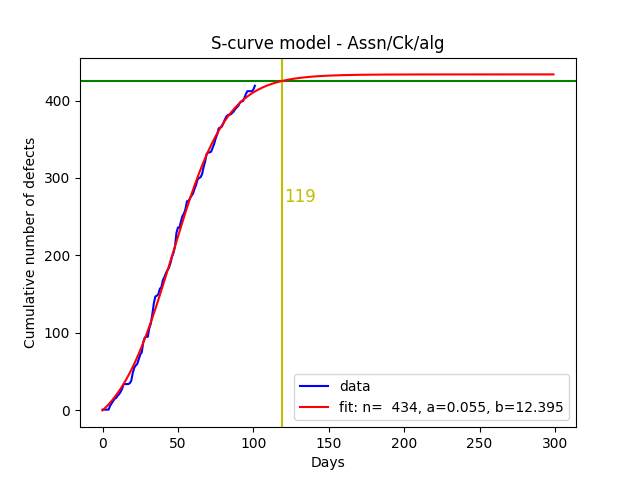
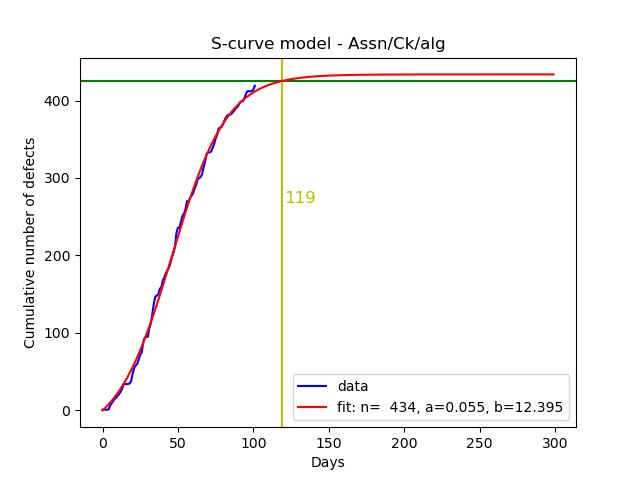
more r-squared values

diff --git a/models.py b/models.py
@@ -117,7 +117,7 @@ plt.close()
 ss_res = np.sum(residuals**2)
 ss_tot = np.sum((ydata-np.mean(ydata))**2)
 r_squared = 1 - (ss_res / ss_tot)
-print(r_squared)
+print("Rayleigh r-squared value: " + str(r_squared))
 
 popt, pcov, infodict, mesg, ier = curve_fit(weibull_cdf, xdata, ydata, bounds=[(0.001, 0.001, 0.001),(np.inf, np.inf, np.inf)], full_output=True)
 fit_y = weibull_cdf(fit_x, *popt)
@@ -148,7 +148,7 @@ plt.close()
 ss_res = np.sum(residuals**2)
 ss_tot = np.sum((ydata-np.mean(ydata))**2)
 r_squared = 1 - (ss_res / ss_tot)
-print(r_squared)
+print("Weibull r-squared value: " + str(r_squared))
 
 popt, pcov, infodict, mesg, ier = curve_fit(logistic_cdf, xdata, ydata, bounds=[(0.001, -np.inf, 0.001),(np.inf, np.inf, np.inf)], full_output=True)
 fit_y = logistic_cdf(fit_x, *popt)
@@ -179,7 +179,7 @@ plt.close()
 ss_res = np.sum(residuals**2)
 ss_tot = np.sum((ydata-np.mean(ydata))**2)
 r_squared = 1 - (ss_res / ss_tot)
-print(r_squared)
+print("Logistic r-squared value: " + str(r_squared))
 
 popt, pcov, infodict, mesg, ier = curve_fit(lyu_cdf, xdata, ydata, bounds=[(0.001, -np.inf, -np.inf),(np.inf, np.inf, np.inf)], full_output=True)
 fit_y = lyu_cdf(fit_x, *popt)
@@ -196,46 +196,6 @@ plt.legend()
 plt.savefig('figures/fits/lyu.png')
 plt.close()
 
-for defect_type in [x for x in defect_types if x != "Misc"]:
-    xs = [x for x in range(len(total_defects_per_type[defect_type]))]
-    xdata = np.asarray(xs)
-    ydata = np.asarray(total_defects_per_type[defect_type])
-
-    popt, pcov = curve_fit(weibull_cdf, xdata, ydata, bounds=[(0.001, 0.001, 0.001),(np.inf, np.inf, np.inf)])
-    fit_y = weibull_cdf(fit_x, *popt)
-    day_of_x_defects = fit_x[fit_y.searchsorted(0.98*popt[0], 'left')]
-    plt.plot(xdata, ydata, 'b-', label='data')
-    plt.axhline(y=0.98*popt[0], color='g', linestyle='-')
-    plt.axvline(x=day_of_x_defects, color='y', linestyle='-')
-    plt.text(day_of_x_defects + 12, popt[0]-170, f'{day_of_x_defects}', color='y', fontsize=12, ha='center', va='bottom')
-    plt.plot(fit_x, fit_y, 'r-', label='fit: n=%5.0f, a=%5.3f, b=%5.3f' % (round(popt[0]), popt[1], popt[2]))
-    plt.title(f'Weibull model - {defect_type}')
-    plt.xlabel('Days')
-    plt.ylabel('Cumulative number of defects')
-    plt.legend()
-    plt.savefig(f'figures/fits/weibull_{defect_type.replace("/","")}.png')
-    plt.close()
-
-for defect_type in defect_types:
-    xs = [x for x in range(len(total_defects_per_type[defect_type]))]
-    xdata = np.asarray(xs)
-    ydata = np.asarray(total_defects_per_type[defect_type])
-
-    popt, pcov = curve_fit(lyu_cdf, xdata, ydata, bounds=[(0.001, -np.inf, -np.inf),(np.inf, np.inf, np.inf)], maxfev=5000)
-    fit_y = lyu_cdf(fit_x, *popt)
-    day_of_x_defects = fit_x[fit_y.searchsorted(0.98*popt[0], 'left')]
-    plt.plot(xdata, ydata, 'b-', label='data')
-    plt.axhline(y=0.98*popt[0], color='g', linestyle='-')
-    plt.axvline(x=day_of_x_defects, color='y', linestyle='-')
-    plt.text(day_of_x_defects + 12, popt[0]-170, f'{day_of_x_defects}', color='y', fontsize=12, ha='center', va='bottom')
-    plt.plot(fit_x, fit_y, 'r-', label='fit: n=%5.0f, a=%5.3f, b=%5.3f' % (round(popt[0]), popt[1], popt[2]))
-    plt.title(f'S-curve model - {defect_type}')
-    plt.xlabel('Days')
-    plt.ylabel('Cumulative number of defects')
-    plt.legend()
-    plt.savefig(f'figures/fits/lyu_{defect_type.replace("/","")}.png')
-    plt.close()
-
 residuals = infodict.get("fvec")
 plt.plot(xdata,residuals, 'o')
 plt.axhline(y=0, color='k', linestyle='--')
@@ -250,4 +210,76 @@ plt.close()
 ss_res = np.sum(residuals**2)
 ss_tot = np.sum((ydata-np.mean(ydata))**2)
 r_squared = 1 - (ss_res / ss_tot)
-print(r_squared)
+print("S-curve r-squared value: " + str(r_squared))
+
+for defect_type in [x for x in defect_types if x != "Misc"]:
+    xs = [x for x in range(len(total_defects_per_type[defect_type]))]
+    xdata = np.asarray(xs)
+    ydata = np.asarray(total_defects_per_type[defect_type])
+
+    popt, pcov, infodict, mesg, ier = curve_fit(weibull_cdf, xdata, ydata, bounds=[(0.001, 0.001, 0.001),(np.inf, np.inf, np.inf)], full_output=True)
+    fit_y = weibull_cdf(fit_x, *popt)
+    day_of_x_defects = fit_x[fit_y.searchsorted(0.98*popt[0], 'left')]
+    plt.plot(xdata, ydata, 'b-', label='data')
+    plt.axhline(y=0.98*popt[0], color='g', linestyle='-')
+    plt.axvline(x=day_of_x_defects, color='y', linestyle='-')
+    plt.text(day_of_x_defects + 12, popt[0]-170, f'{day_of_x_defects}', color='y', fontsize=12, ha='center', va='bottom')
+    plt.plot(fit_x, fit_y, 'r-', label='fit: n=%5.0f, a=%5.3f, b=%5.3f' % (round(popt[0]), popt[1], popt[2]))
+    plt.title(f'Weibull model - {defect_type}')
+    plt.xlabel('Days')
+    plt.ylabel('Cumulative number of defects')
+    plt.legend()
+    plt.savefig(f'figures/fits/weibull_{defect_type.replace("/","")}.png')
+    plt.close()
+
+    residuals = infodict.get("fvec")
+    plt.plot(xdata,residuals, 'o')
+    plt.axhline(y=0, color='k', linestyle='--')
+    ax = plt.gca()
+    ax.set_ylim([-75, 75])
+    plt.title(f'Residuals - {defect_type}')
+    plt.xlabel('Days')
+    plt.ylabel('Residual')
+    plt.savefig(f'figures/residuals/weibull_r_{defect_type.replace("/","")}.png')
+    plt.close()
+
+    ss_res = np.sum(residuals**2)
+    ss_tot = np.sum((ydata-np.mean(ydata))**2)
+    r_squared = 1 - (ss_res / ss_tot)
+    print('Weibull ' + defect_type + ' ' + str(r_squared))
+
+for defect_type in defect_types:
+    xs = [x for x in range(len(total_defects_per_type[defect_type]))]
+    xdata = np.asarray(xs)
+    ydata = np.asarray(total_defects_per_type[defect_type])
+
+    popt, pcov, infodict, mesg, ier = curve_fit(lyu_cdf, xdata, ydata, bounds=[(0.001, -np.inf, -np.inf),(np.inf, np.inf, np.inf)], maxfev=5000, full_output=True)
+    fit_y = lyu_cdf(fit_x, *popt)
+    day_of_x_defects = fit_x[fit_y.searchsorted(0.98*popt[0], 'left')]
+    plt.plot(xdata, ydata, 'b-', label='data')
+    plt.axhline(y=0.98*popt[0], color='g', linestyle='-')
+    plt.axvline(x=day_of_x_defects, color='y', linestyle='-')
+    plt.text(day_of_x_defects + 12, popt[0]-170, f'{day_of_x_defects}', color='y', fontsize=12, ha='center', va='bottom')
+    plt.plot(fit_x, fit_y, 'r-', label='fit: n=%5.0f, a=%5.3f, b=%5.3f' % (round(popt[0]), popt[1], popt[2]))
+    plt.title(f'S-curve model - {defect_type}')
+    plt.xlabel('Days')
+    plt.ylabel('Cumulative number of defects')
+    plt.legend()
+    plt.savefig(f'figures/fits/lyu_{defect_type.replace("/","")}.png')
+    plt.close()
+
+    residuals = infodict.get("fvec")
+    plt.plot(xdata,residuals, 'o')
+    plt.axhline(y=0, color='k', linestyle='--')
+    ax = plt.gca()
+    ax.set_ylim([-75, 75])
+    plt.title(f'Residuals - {defect_type}')
+    plt.xlabel('Days')
+    plt.ylabel('Residual')
+    plt.savefig(f'figures/residuals/lyu_r_{defect_type.replace("/","")}.png')
+    plt.close()
+
+    ss_res = np.sum(residuals**2)
+    ss_tot = np.sum((ydata-np.mean(ydata))**2)
+    r_squared = 1 - (ss_res / ss_tot)
+    print('S-curve ' + defect_type + ' ' + str(r_squared))
